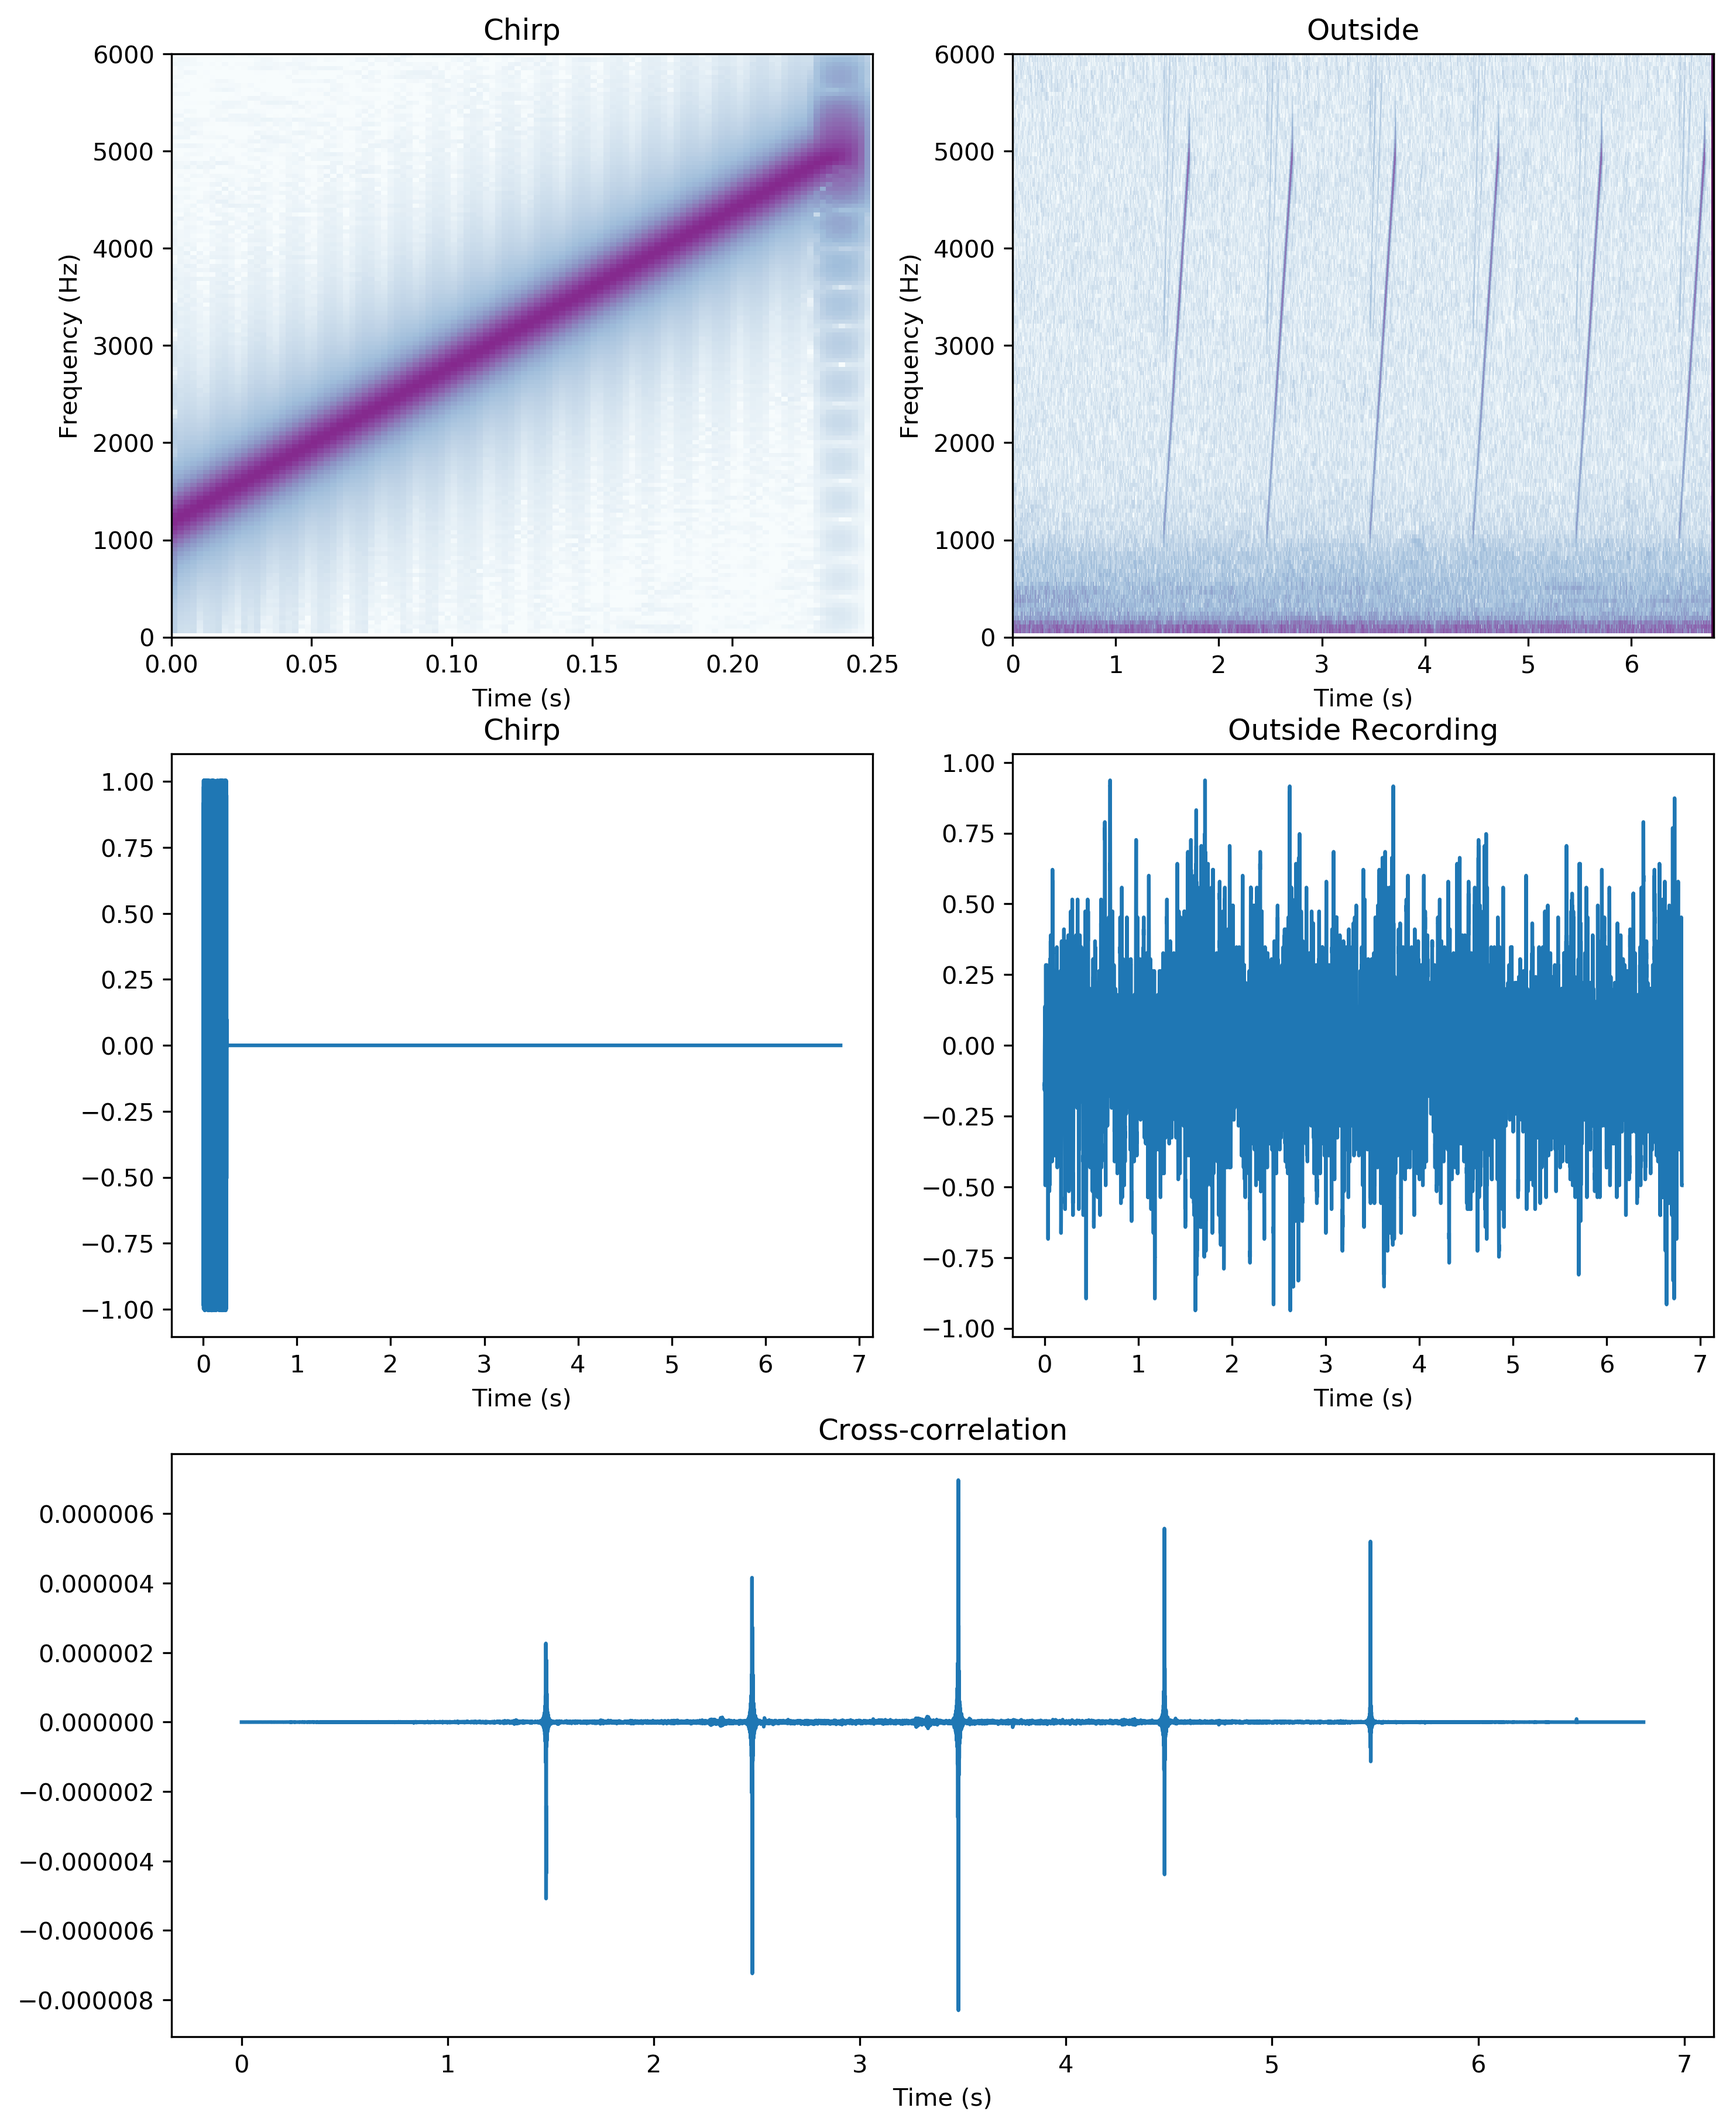
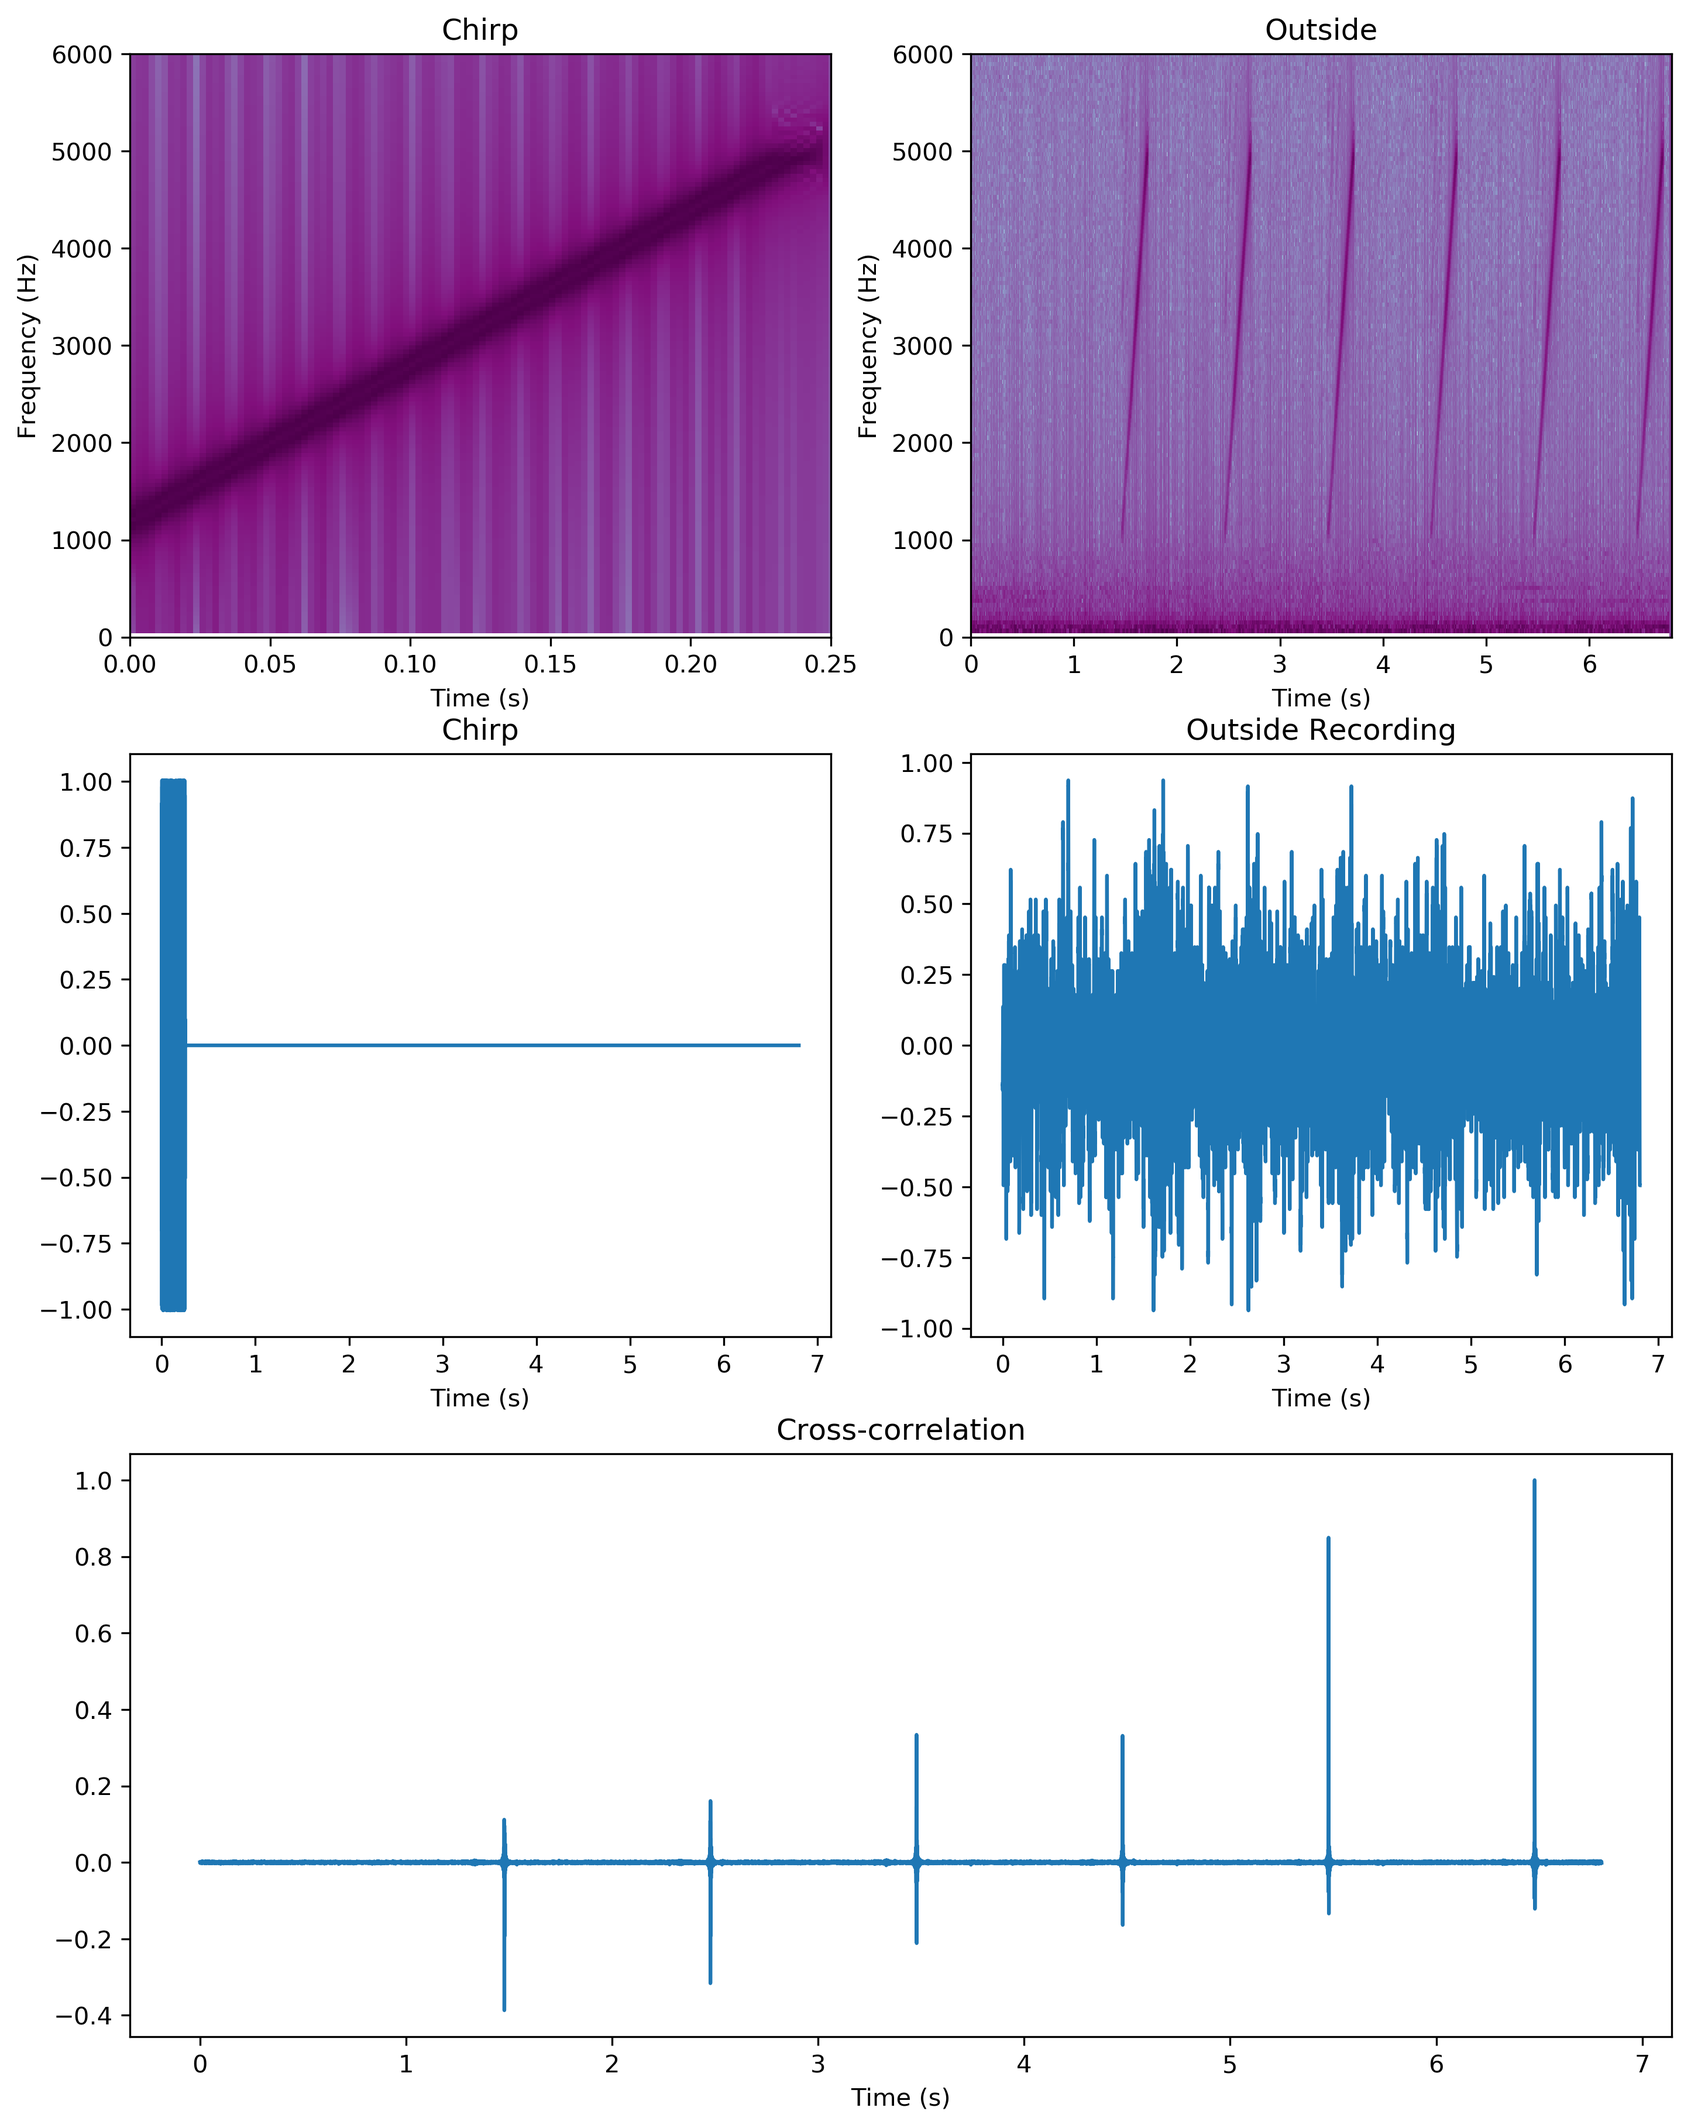
save before clearing from uma

diff --git a/src/python/correlation.py b/src/python/correlation.py
@@ -1,3 +1,6 @@
+"""
+Finds the cross correlation between two signals.
+"""
 import numpy as np
 import matplotlib.pyplot as plt
 
@@ -17,7 +20,7 @@ def S_xy(signal1, signal2):
     return sxy
 
 
-def crossCorrelation(signal1, signal2):
+def crossCorrelation(signal1, signal2, binWidth, overlap):
     """
     Generate the cross-correlation between two signals.
 
@@ -27,8 +30,27 @@ def crossCorrelation(signal1, signal2):
         raise ValueError("signals are not the same length")
     if signal1.sampleRate != signal2.sampleRate:
         raise ValueError("signals do not have the same sample rate")
-    # return from the frequency domain to the time domain with the ifft
-    return np.fft.ifft(S_xy(signal1, signal2)) * signal1.sampleRate
+
+    t = np.linspace(0, signal1.length / signal1.sampleRate, signal1.length * overlap)
+    print(t)
+
+    starts = np.arange(0, signal1.length, binWidth // overlap)
+    starts = np.append(starts, signal1.length)
+    corr = np.zeros(signal1.length * overlap)
+    '''
+    for step in range(1, np.shape(starts)[0]):
+        subsignal1 = Signal(sampleRate=signal1.sampleRate,
+                            length=starts[step + overlap] - starts[step],
+                            values=signal1.values[starts[step - 1]:starts[step]])
+        subsignal2 = Signal(sampleRate=signal2.sampleRate,
+                            length=starts[step + overlap] - starts[step],
+                            values=signal2.values[starts[step - 1]:starts[step]])
+        corr[starts[step]:starts[step+overlap]] = np.fft.ifft(S_xy(subsignal1, subsignal2)) * signal1.sampleRate
+    '''
+    corr = np.fft.ifft(S_xy(signal1, signal2)) * signal1.sampleRate
+    corr = corr / np.max(corr)
+    return corr, t
+    # return corr, t
 
 
 if __name__ == "__main__":
@@ -45,6 +67,7 @@ if __name__ == "__main__":
     plt.tight_layout()
 
     # plot signals' spectrograms
+
     plt.subplot(321)
     plt.title("Chirp")
     specs, f, t = spectrogram(chirp, 1000, 200)
@@ -89,7 +112,7 @@ if __name__ == "__main__":
     plt.subplot(313)
     plt.xlabel("Time (s)")
     plt.title("Cross-correlation")
-    rxy = crossCorrelation(chirp, outside)
+    rxy, tm = crossCorrelation(chirp, outside, 2000, 1)
     plt.plot(tm[::10], rxy[::10])
     print("@debug created cross-correlation")
 

diff --git a/src/python/spectrogram.py b/src/python/spectrogram.py
@@ -4,7 +4,7 @@ import matplotlib.pyplot as plt
 from signals import Signal, G_xx  # custom module
 
 
-def spectrogram(signal, binWidth, overlap=1):
+def spectrogram(signal, binWidth, overlap):
     """
     Generates the spectrogram of an input signal.
 
@@ -30,7 +30,6 @@ def spectrogram(signal, binWidth, overlap=1):
                            length=starts[step + overlap] - starts[step],
                            values=signal.values[starts[step]:starts[step + overlap]])
         specs[:, step] = G_xx(subsignal)
-
     return specs, f, t
 
 
@@ -50,7 +49,6 @@ if __name__ == '__main__':
     # plt.show()
 
     plt.figure(figsize=(7, 5))
-    plt.subplot(321)
     plt.title(bird.name)
     specs, f, t = spectrogram(bird, 1000, 200)
     specs = specs[:, ::20]

diff --git a/src/python/signals.py b/src/python/signals.py
@@ -85,7 +85,7 @@ def linearSpectrum(signal):
 
     @return X_m: linear spectrum
     """
-    X_m = np.fft.fft(hann(signal.length) * signal.values) / signal.sampleRate
+    X_m = np.fft.fft((signal.length) * signal.values) / signal.sampleRate
     return X_m
 
 

diff --git a/src/python/untitled1.py b/src/python/untitled1.py
@@ -1,0 +1,8 @@
+# -*- coding: utf-8 -*-
+"""
+Created on Thu Jul 26 12:57:35 2018
+
+@author: ach370
+"""
+
+x = 7
